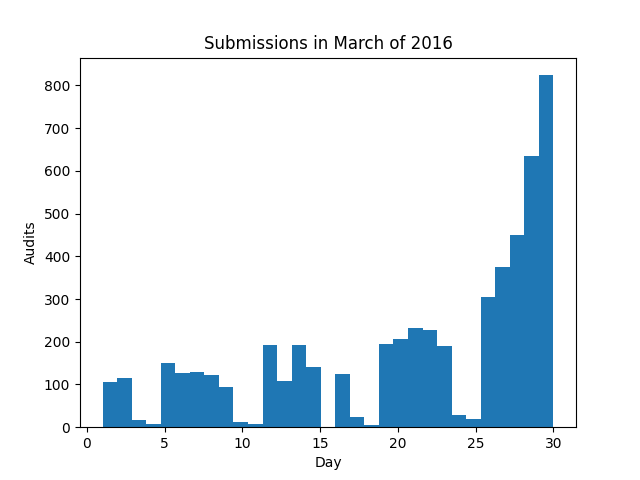
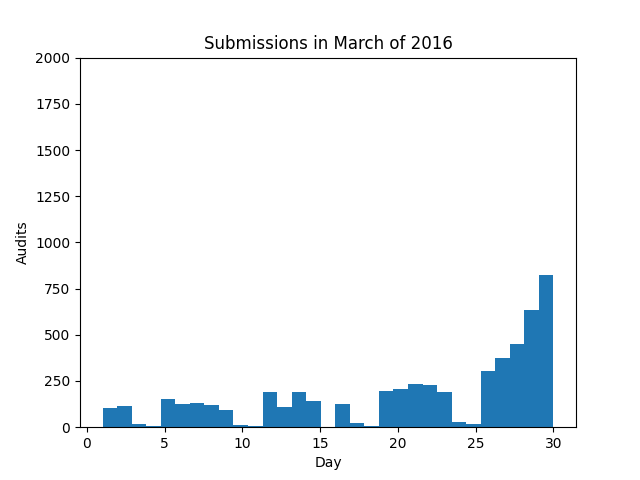
Fixing the axes, so it tells a better story

diff --git a/count-march-submissions/main.py b/count-march-submissions/main.py
@@ -47,6 +47,8 @@ for year in range(16, 24):
     ls = [key for key, val in h.items() for _ in range(val)]
     plt.clf() 
     obj = plt.hist(ls, bins=31)
+    ax = plt.gca()
+    ax.set_ylim([0, 2000])
     plt.title(f'Submissions in March of {2000+year}')
     plt.xlabel("Day")
     plt.ylabel("Audits")
